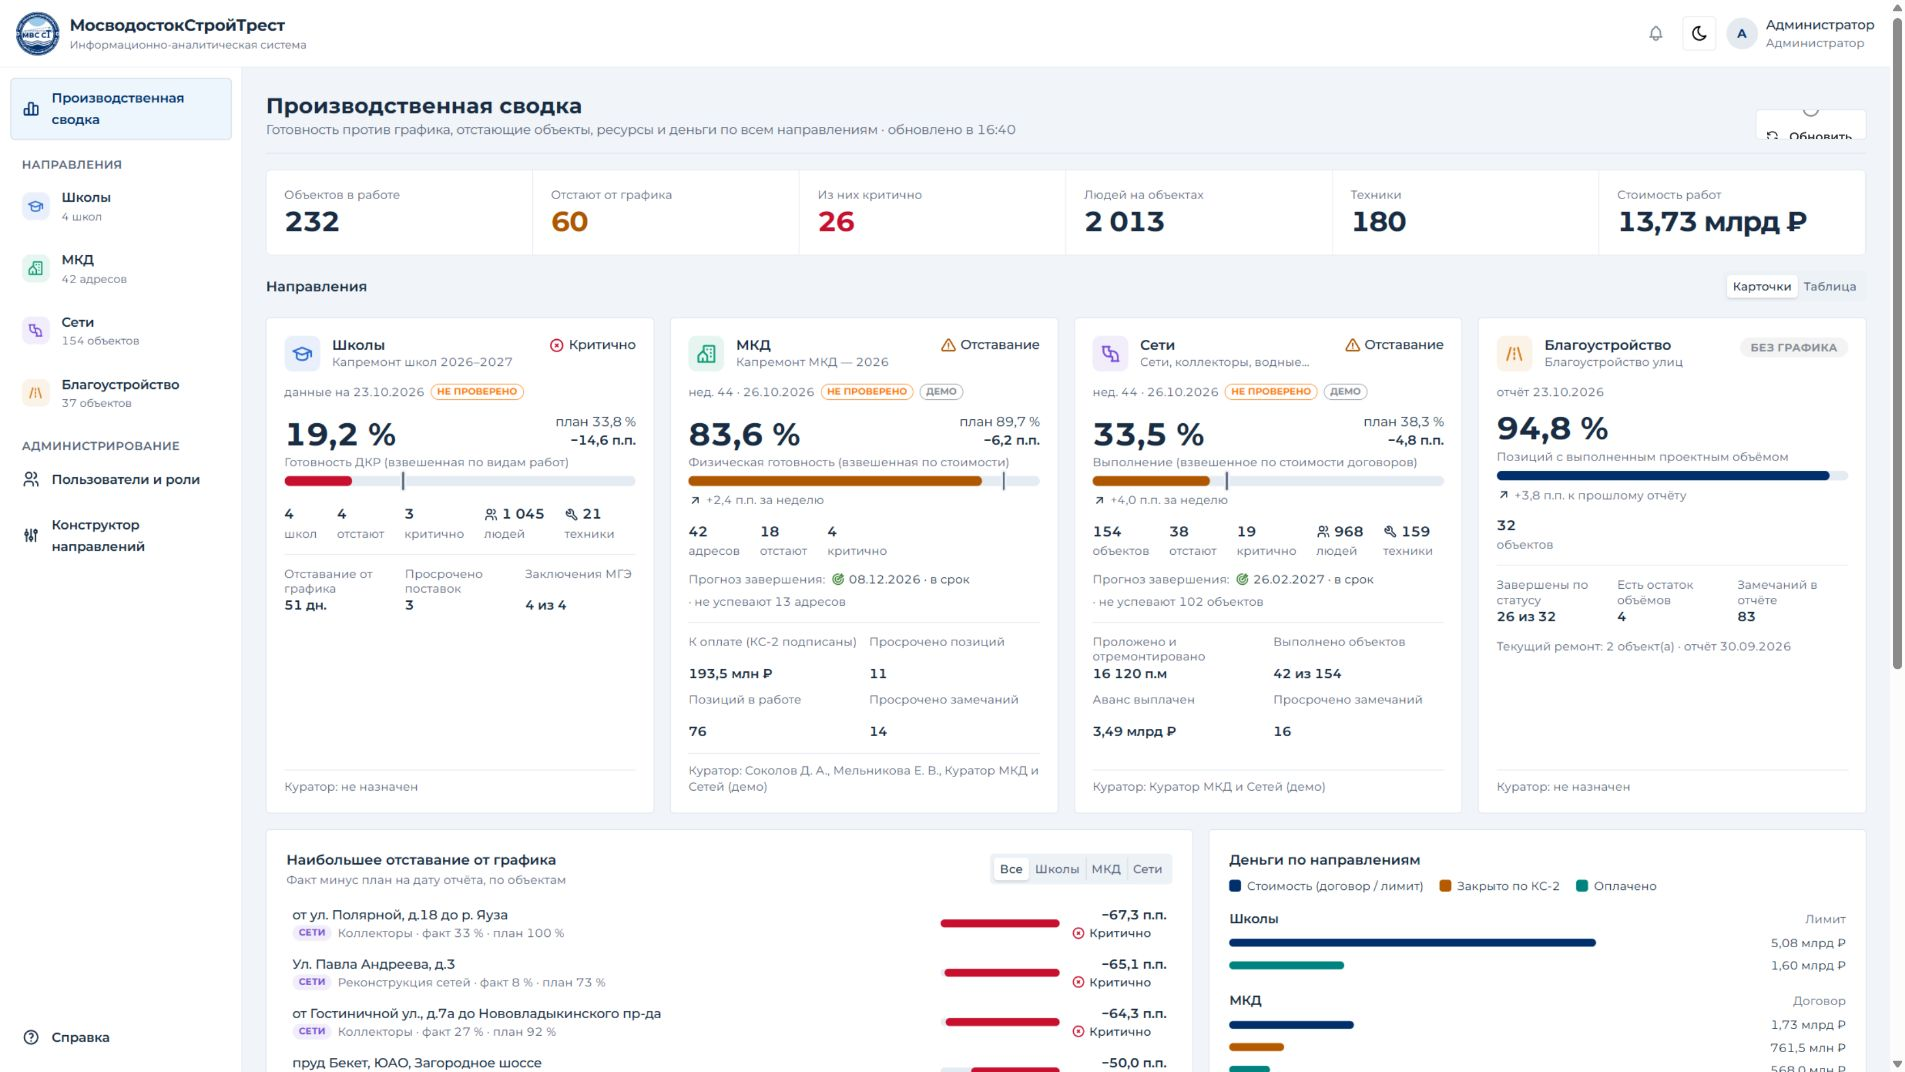
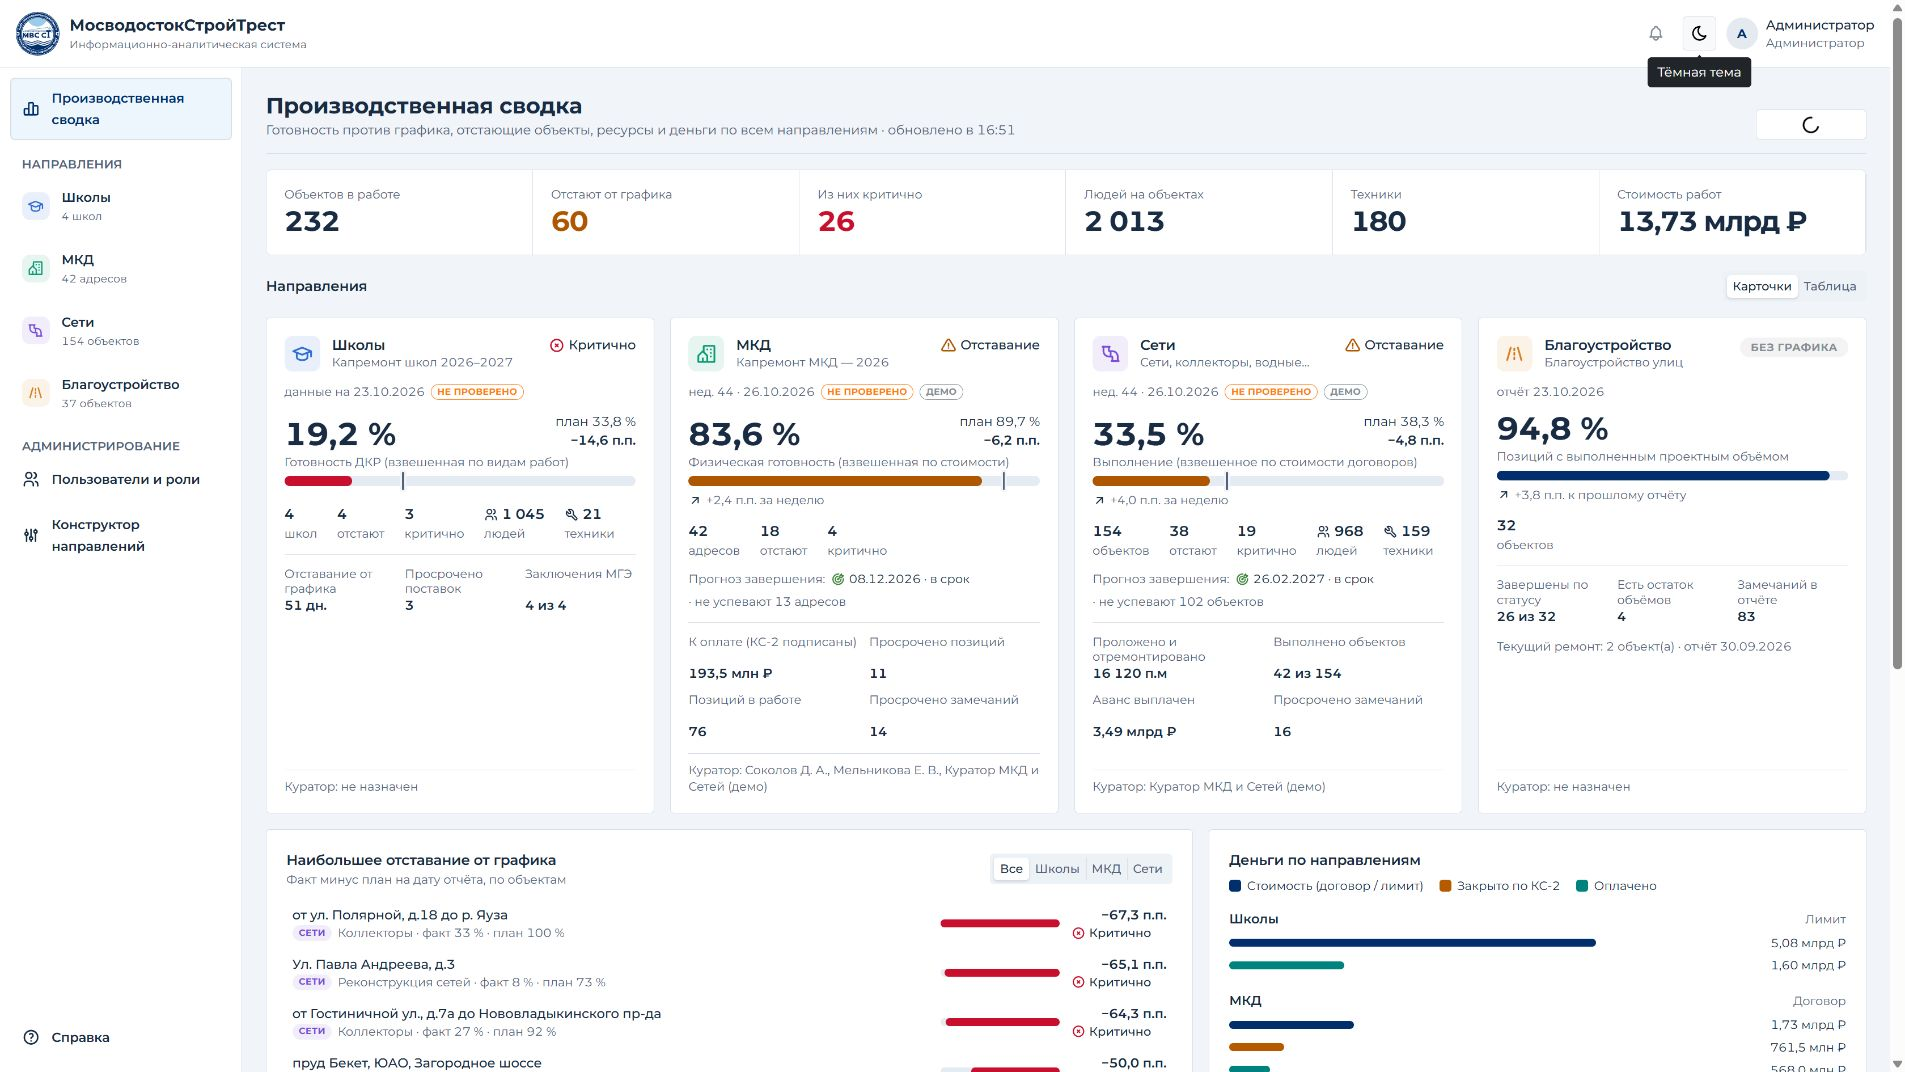
fix(design): ensure dark theme action contrast and stable review screenshots

diff --git a/apps/web/src/theme.ts b/apps/web/src/theme.ts
@@ -1,4 +1,4 @@
-import { createTheme } from '@mantine/core';
+import { createTheme, defaultVariantColorsResolver } from '@mantine/core';
 
 /**
  * Единая тема приложения. Цвета статусов и светофора — в theme.css (CSS-переменные),
@@ -6,6 +6,12 @@ import { createTheme } from '@mantine/core';
  */
 export const theme = createTheme({
   primaryColor: 'blue',
+  autoContrast: true,
+  variantColorResolver: (input) => {
+    const colors = defaultVariantColorsResolver(input);
+    // У фирменной кнопки разные ступени заливки в светлой и тёмной темах.
+    return input.color === 'blue' && input.variant === 'filled' ? { ...colors, color: 'var(--brand-on-solid)' } : colors;
+  },
   colors: {
     blue: ['#edf6fd', '#dde4ed', '#c3ddef', '#9bcbeb', '#72add6', '#407faf', '#002f6c', '#00285c', '#00224f', '#001b40'],
     dark: ['#e5edf6', '#c2cedd', '#a2b2c6', '#73849b', '#42526a', '#304158', '#233247', '#192639', '#132032', '#0e1929'],

diff --git a/apps/web/src/theme.css b/apps/web/src/theme.css
@@ -205,3 +205,5 @@ button, a, input, select, textarea { touch-action: manipulation; }
 .matrix-table thead { background: var(--panel) !important; }
 .ol-control button { background: var(--panel); color: var(--ink); border: 1px solid var(--line); border-radius: 4px; }
 .ol-control button:hover { background: var(--selected); }
+:root { --brand-on-solid: #ffffff; }
+[data-mantine-color-scheme='dark'] { --brand-on-solid: #101b2b; }

diff --git a/docs/ui-refresh/README.md b/docs/ui-refresh/README.md
@@ -112,3 +112,5 @@
 5. Обновление зависимостей с устранением существующих npm audit замечаний: отдельная техническая задача.
 
 Ни один из этих пунктов не включён в реализацию. Слияние в main и развёртывание не выполнялись.
+
+Финальная проверка контраста: для светлой фирменной заливки кнопок в тёмной теме задан тёмный текст; включён autoContrast Mantine. Проверено по вычисленным цветам: фон RGB 155/203/235, текст RGB 16/27/43. Снимки модальной формы и карточки объекта пересняты после завершения переходов.
